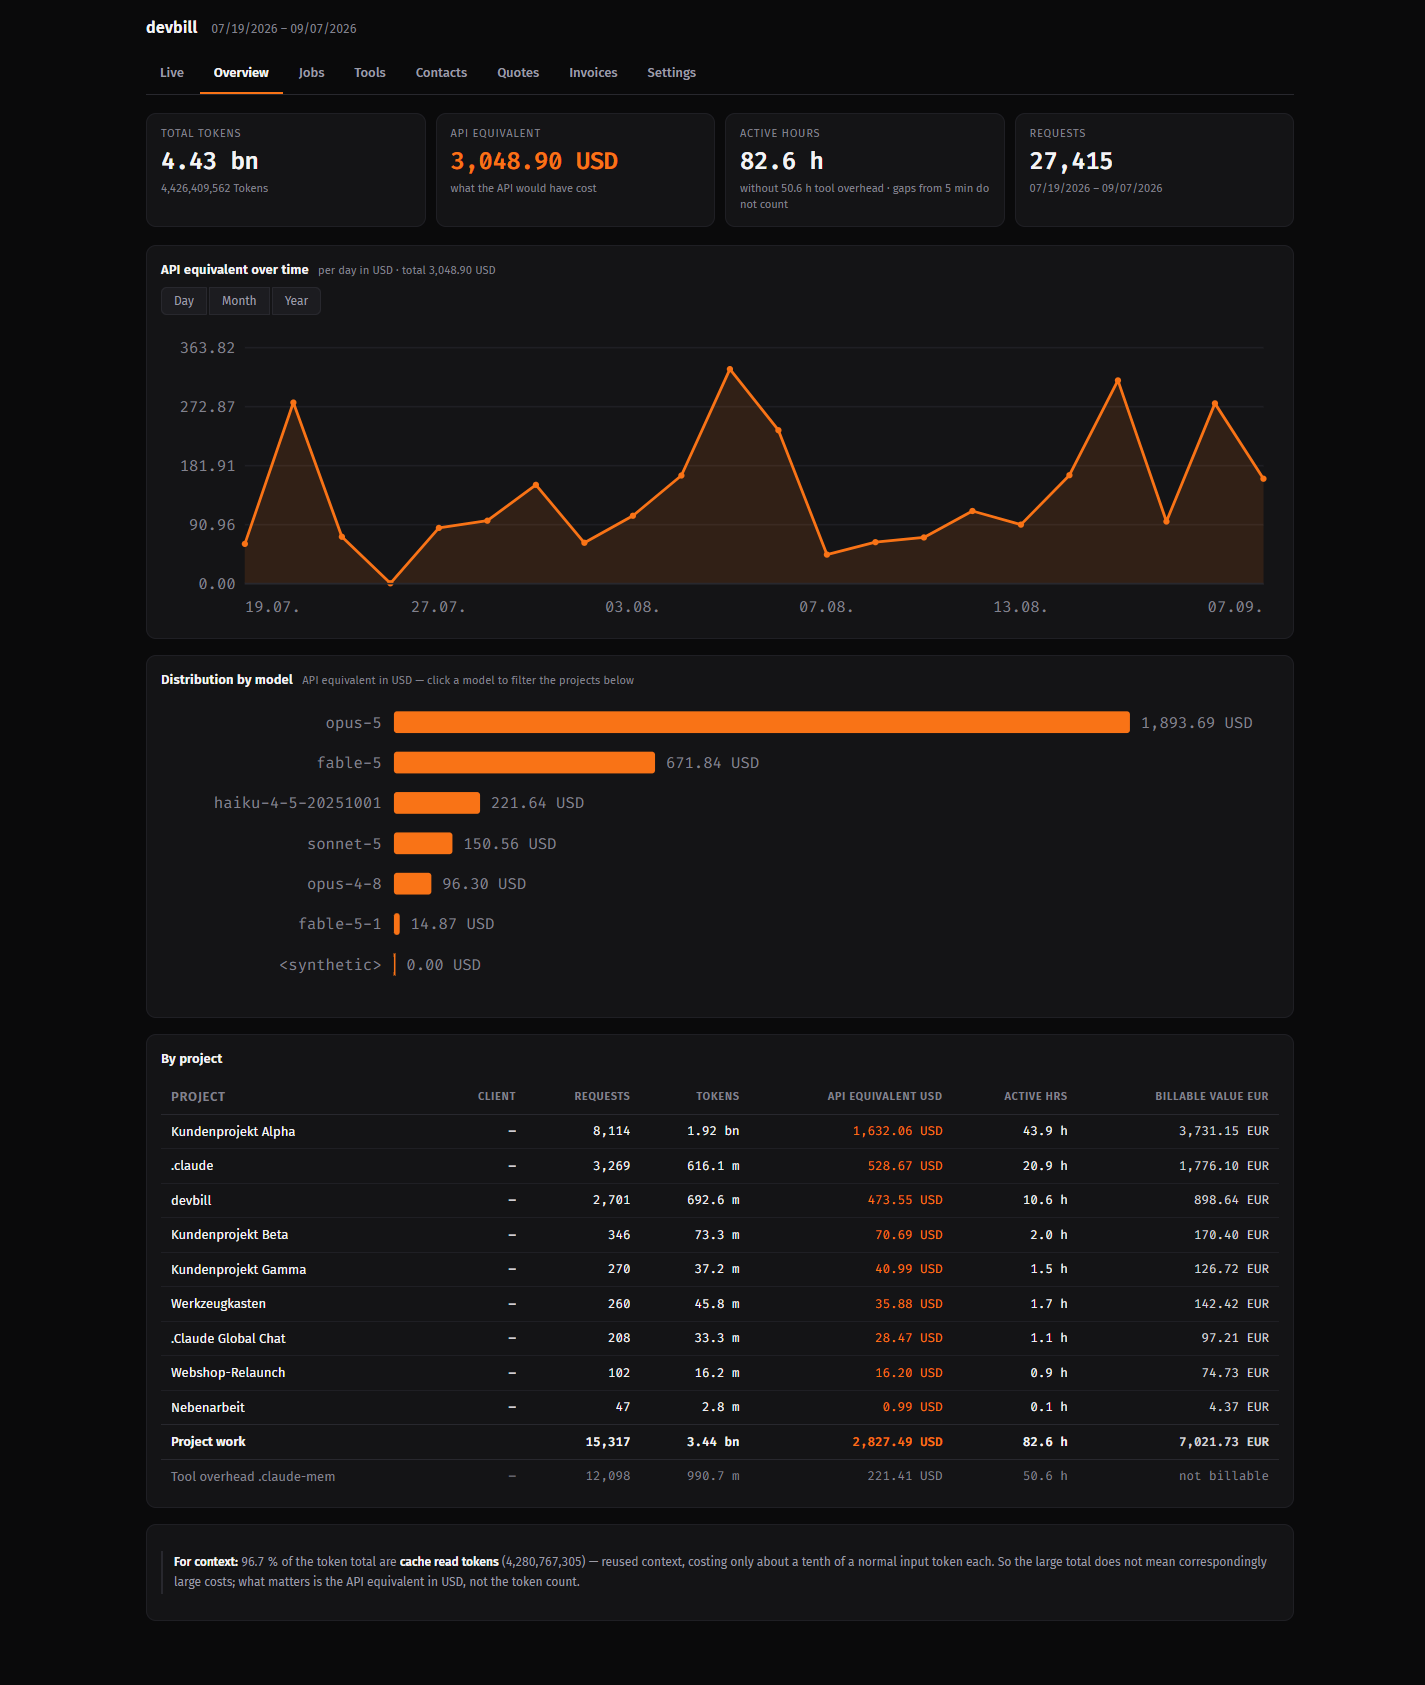
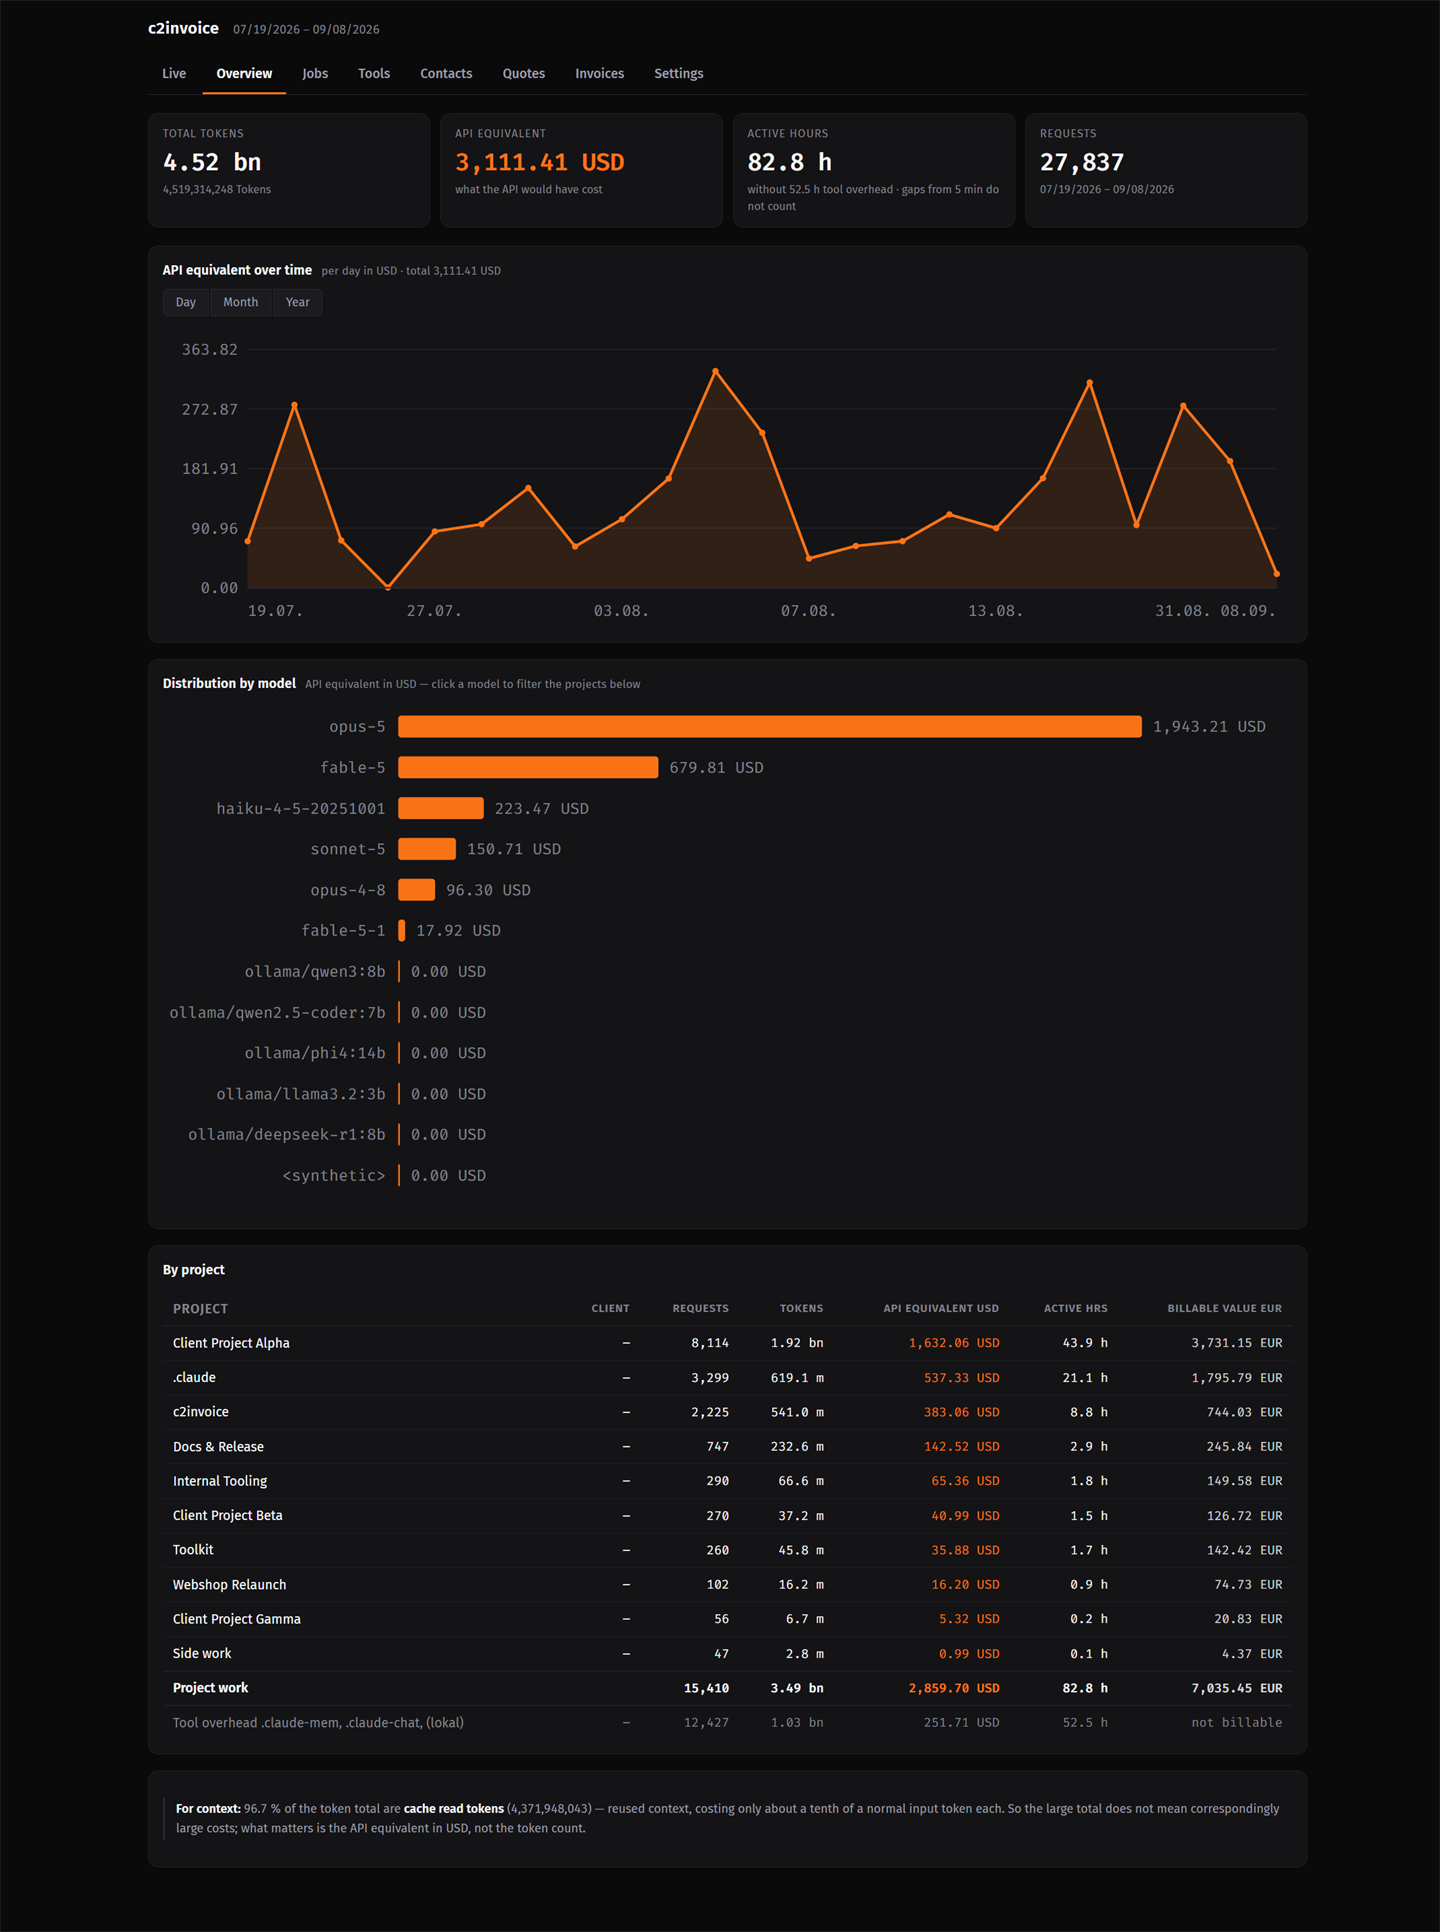
docs: screenshots show the new name
The three screenshots still carried the old name in the header, and two
of them listed a project called after it. Retaken against live data.

Project and job names are anonymised as before. The jobs table now shows
real figures in the subscription share column, which stood at zero when
the previous screenshots were taken.

Claude-Session: https://claude.ai/code/session_01X4CZTn2UrqD3ayBkMspzk2

diff --git a/README.md b/README.md
@@ -28,7 +28,7 @@ session logs → active working time → hourly value → margin → invoice PDF
 
 Per job — active hours and billable value next to what the API would have cost:
 
-![Jobs table: hours, API equivalent and billable value per job](docs/jobs.png)
+![Jobs table: hours, API equivalent, subscription share and billable value per job](docs/jobs.png)
 
 Live, while you work — sessions can be booked onto a job by hand:
 
